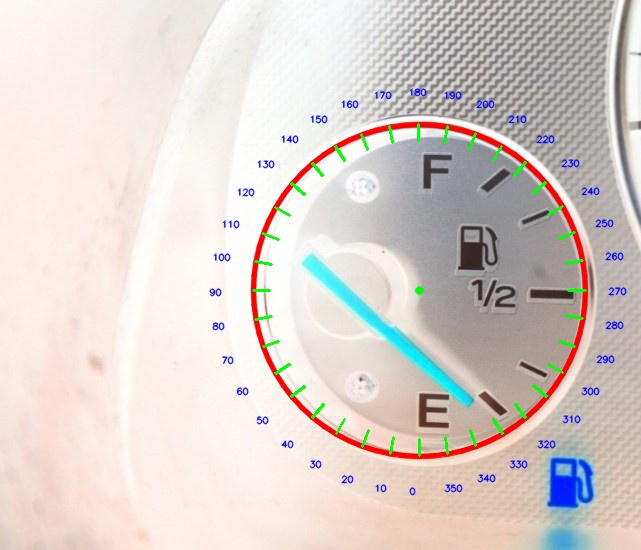
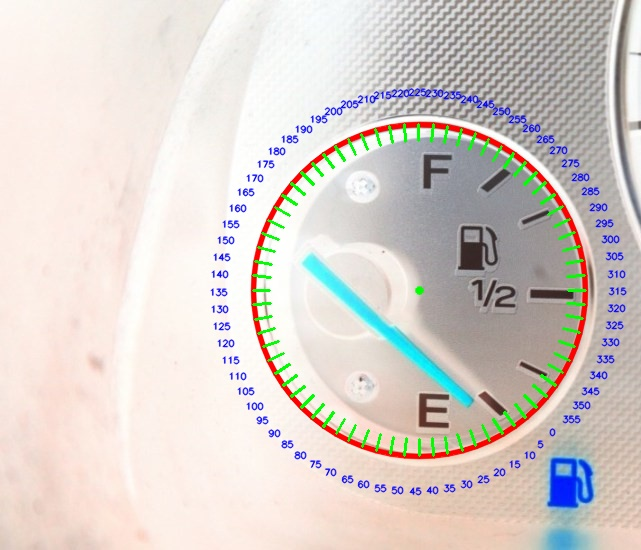
line tracer

diff --git a/gaugereader&textdetector/gauge3.py b/gaugereader&textdetector/gauge3.py
@@ -22,22 +22,20 @@ def avg_circles(circles, b):
     avg_r = int(avg_r/(b))
     return avg_x, avg_y, avg_r
 
-
-
 def dist_2_pts(x1, y1, x2, y2):
     #print np.sqrt((x2-x1)^2+(y2-y1)^2)
     return np.sqrt((x2 - x1)**2 + (y2 - y1)**2)
 
+
 def find_E_F_angle(x,y):
     #first_line_list=[]
-    print(x,y)
-    first_line_list=[[436,411.7],[436,168.3]]
+    first_line_list=[[173.36,319.83],[108.3,134.16]]
     x_angle=[]
     y_angle=[]
     res=[]
     final_angle=[]
     for i in range(0,2):
-        a=first_line_list[i][0]-x
+        a=first_line_list[i][0]-x0
         b=y-first_line_list[i][1]
         x_angle.append(a)
         y_angle.append(b)
@@ -55,8 +53,8 @@ def find_E_F_angle(x,y):
         if x_angle[i] < 0 and y_angle[i] <0 :
             final_angle.append(270-res[i])
     print(final_angle[0],final_angle[1])
-    print(x,y)
     return final_angle[0],final_angle[1]
+
 
 def calibrate_gauge(gauge_number, file_type):
     '''
@@ -74,7 +72,7 @@ def calibrate_gauge(gauge_number, file_type):
     img = imgout.copy()
     img = 255 - img
     #cv2.imshow("original", imgout)
-    cv2.imshow("flip", img)
+    #cv2.imshow("flip", img)
     cv2.waitKey(0)
     height, width = img.shape[:2]
     gray = cv2.cvtColor(img, cv2.COLOR_BGR2GRAY)  #convert to gray
@@ -87,7 +85,7 @@ def calibrate_gauge(gauge_number, file_type):
     #detect circles
     #restricting the search from 35-48% of the possible radii gives fairly good results across different samples.  Remember that
     #these are pixel values which correspond to the possible radii search range.
-    circles = cv2.HoughCircles(gray, cv2.HOUGH_GRADIENT, 1, 20, np.array([]), 100, 50, 150, 200)
+    circles = cv2.HoughCircles(gray, cv2.HOUGH_GRADIENT, 1, 20, np.array([]), 100, 50, 100, 200)
     #circles = np.uint16(np.around(circles))
     #for i in circles[0,:]:
     #    cv2.circle(img,(i[0],i[1]),i[2],(0,255,0),2)
@@ -117,7 +115,7 @@ def calibrate_gauge(gauge_number, file_type):
     (i+9) in the text offset rotates the labels by 90 degrees so 0/360 is at the bottom (-y in cartesian).  So this assumes the
     gauge is aligned in the image, but it can be adjusted by changing the value of 9 to something else.
     '''
-    separation = 5.0 #in degrees 몇도 단위로 나눌건지 결정
+    separation = 10.0 #in degrees
     interval = int(360 / separation)
     p1 = np.zeros((interval,2))  #set empty arrays
     p2 = np.zeros((interval,2))
@@ -149,10 +147,8 @@ def calibrate_gauge(gauge_number, file_type):
     #get user input on min, max, values, and units
     #여기에 입력하는 중!!
     print ("gauge number: %s" %gauge_number)
-    #min_angle = input('Min angle (lowest possible angle of dial) - in degrees: ') #the lowest possible angle
-    #max_angle = input('Max angle (highest possible angle) - in degrees: ') #highest possible angle
     min_value = 0
-    max_value = 365
+    max_value = 100
     units= '%'
     #min_value = input('Min value: ') #usually zero
     #max_value = input('Max value: ') #maximum reading of the gauge
@@ -164,8 +160,8 @@ def calibrate_gauge(gauge_number, file_type):
     # min_value = 0
     # max_value = 200
     # units = "PSI"
+    print(x,y)
 
-    #return min_angle, max_angle, min_value, max_value, units, x, y, r
     return min_value, max_value, units, x, y, r
 
 def get_current_value(img, min_angle, max_angle, min_value, max_value, x, y, r, gauge_number, file_type):
@@ -203,7 +199,7 @@ def get_current_value(img, min_angle, max_angle, min_value, max_value, x, y, r, 
     cv2.imwrite('gauge-%s-tempdst2.%s' % (gauge_number, file_type), dst2)
 
     # find lines
-    minLineLength = 60
+    minLineLength = 10
     maxLineGap = 0
     lines = cv2.HoughLinesP(image=dst2, rho=3, theta=np.pi / 180, threshold=100,minLineLength=minLineLength, maxLineGap=0)  # rho is set to 3 to detect more lines, easier to get more then filter them out later
     # 선 찾는 코드
@@ -219,8 +215,8 @@ def get_current_value(img, min_angle, max_angle, min_value, max_value, x, y, r, 
 
     diff1LowerBound = 0.3 #diff1LowerBound and diff1UpperBound determine how close the line should be from the center
     diff1UpperBound = 0.4 #이거 바꿈
-    diff2LowerBound = 0.7 #diff2LowerBound and diff2UpperBound determine how close the other point of the line should be to the outside of the gauge
-    diff2UpperBound = 0.8 #이거 키우면 눈금에 가까운 애들 찾을 수 있음
+    diff2LowerBound = 0.5 #diff2LowerBound and diff2UpperBound determine how close the other point of the line should be to the outside of the gauge
+    diff2UpperBound = 1.0 #이거 키우면 눈금에 가까운 애들 찾을 수 있음
     for i in range(0, len(lines)):
         for x1, y1, x2, y2 in lines[i]:
             diff1 = dist_2_pts(x, y, x1, y1)  # x, y is center of circle
@@ -242,15 +238,13 @@ def get_current_value(img, min_angle, max_angle, min_value, max_value, x, y, r, 
         y1 = final_line_list[i][1]
         x2 = final_line_list[i][2]
         y2 = final_line_list[i][3]
-        cv2.line(img, (x1, y1), (x2, y2), (0, 255-255*i,255*i ), 2)
+        cv2.line(img, (x1, y1), (x2, y2), (0, 255, 0), 2)
 
-
-    # assumes the first line is the best one 지금 i=1일 때가 제대로 된 선인데 개이상함 왜이럼
+    # assumes the first line is the best one
     x1 = final_line_list[0][0]
     y1 = final_line_list[0][1]
     x2 = final_line_list[0][2]
     y2 = final_line_list[0][3]
-    print(x1,y1,x2,y2)
     cv2.line(img, (x1, y1), (x2, y2), (0, 255, 0), 2)
 
     #for testing purposes, show the line overlayed on the original image
@@ -258,7 +252,6 @@ def get_current_value(img, min_angle, max_angle, min_value, max_value, x, y, r, 
     cv2.imwrite('gauge-%s-lines-2.%s' % (gauge_number, file_type), img)
 
     #find the farthest point from the center to be what is used to determine the angle
-    #왜 먼거 쓰냐면 선에 양 끝 잇어서 그럼
     dist_pt_0 = dist_2_pts(x, y, x1, y1)
     dist_pt_1 = dist_2_pts(x, y, x2, y2)
     if (dist_pt_0 > dist_pt_1):
@@ -278,13 +271,13 @@ def get_current_value(img, min_angle, max_angle, min_value, max_value, x, y, r, 
 
     #these were determined by trial and error
     res = np.rad2deg(res)
-    if x_angle > 0 and y_angle > 0:  #in quadrant I 1사분면?
+    if x_angle > 0 and y_angle > 0:  #in quadrant I
         final_angle = 270 - res
-    if x_angle < 0 and y_angle > 0:  #in quadrant II 2사분면
+    if x_angle < 0 and y_angle > 0:  #in quadrant II
         final_angle = 90 - res
-    if x_angle < 0 and y_angle < 0:  #in quadrant III 3사분면
+    if x_angle < 0 and y_angle < 0:  #in quadrant III
         final_angle = 90 - res
-    if x_angle > 0 and y_angle < 0:  #in quadrant IV 4사분면
+    if x_angle > 0 and y_angle < 0:  #in quadrant IV
         final_angle = 270 - res
 
     #print final_angle
@@ -304,10 +297,9 @@ def get_current_value(img, min_angle, max_angle, min_value, max_value, x, y, r, 
     return new_value
 
 def main():
-    gauge_number = 2
+    gauge_number = 3
     file_type='jpg'
     # name the calibration image of your gauge 'gauge-#.jpg', for example 'gauge-5.jpg'.  It's written this way so you can easily try multiple images
-    #min_angle, max_angle, min_value, max_value, units, x, y, r = calibrate_gauge(gauge_number, file_type)
     min_value, max_value, units, x, y, r = calibrate_gauge(gauge_number, file_type)
     min_angle, max_angle = find_E_F_angle(x,y)
 

diff --git a/gaugereader&textdetector/text0729.py b/gaugereader&textdetector/text0729.py
@@ -4,20 +4,22 @@ import numpy as np
 
 
 
-img = cv2.imread(r'C:\Users\82109\Desktop\gauge-2.jpg')
+img = cv2.imread('gauge-2.jpg')
 
-gray = cv2.cvtColor(img, cv2.COLOR_BGR2GRAY)
-gray = cv2.GaussianBlur(gray,(5, 5),0)
+gray = cv2.cvtColor(img, cv2.COLOR_BGR2GRAY)#그레이함수로 변환
+gray = cv2.GaussianBlur(gray,(5, 5),0)#블러처리
 
-mser = cv2.MSER_create()
+mser = cv2.MSER_create()#그레이 영상에서 글자 영역 검출
 regions,_ = mser.detectRegions(gray)
 
-clone = img.copy()
+clone = img.copy()#원본이미지 복사
 
 
 hulls = [cv2.convexHull(p.reshape(-1, 1, 2)) for p in regions]
+#검출된 영역에서 convexhull 검출
 
 remove1 = []
+#사각영역 검출하고 보여주기
 for i,c1 in enumerate(hulls):
 
     x, y, w, h = cv2.boundingRect(c1)
@@ -33,6 +35,11 @@ for i,c1 in enumerate(hulls):
         r2_start = (x, y)
         r2_end = (x+w, y+h)
 
+#일단 직사각형 제거해야 할 듯
+#원판 찾고 잘라서 그 안에서 찾기
+
+#큰 사각형 안에 작은 사각형이 있을 경우 제거
+
         if r1_start[0]> r2_start[0] and r1_start[1] > r2_start[1] and r1_end[0] < r2_end[0] and r1_end[1] < r2_end[1]:
             remove1.append(i)
 
@@ -41,6 +48,7 @@ for j,cnt in enumerate(hulls):
     if j in remove1: continue
     x, y, w, h = cv2.boundingRect(cnt)
     margin = 10
+    #숫자 외곽에 여유공간 주기
     cv2.rectangle(clone, (x-margin, y-margin), (x + w + margin, y + h + margin), (0, 255, 0), 1)
 
 cv2.imshow('mser', clone)

diff --git a/linetracer/line.py b/linetracer/line.py
@@ -1,0 +1,24 @@
+import cv2
+import numpy as np
+
+
+def main():
+    img=cv2.imread('line2.jpg')
+    #lin.jpg도 해볼 수 있음
+    #crop_img=img[60:120,0:160]
+    gray=cv2.cvtColor(img, cv2.COLOR_BGR2GRAY)
+    blur=cv2.GaussianBlur(gray,(5,5),0)
+    #여기 밑에 blur 다음 숫자 바꿔주면 임계점 바꿀 수 있음
+    #현재 200보다 작은 값은 0, 200보다 큰 값은 255로 바꾸는 중
+    ret,thresh1=cv2.threshold(blur,200,255,cv2.THRESH_BINARY_INV)
+    cv2.imshow('thresh1',thresh1)
+    cv2.waitKey(0)
+    cv2.destroyAllWindows()
+
+
+if __name__=='__main__':
+    main()
+
+
+
+
